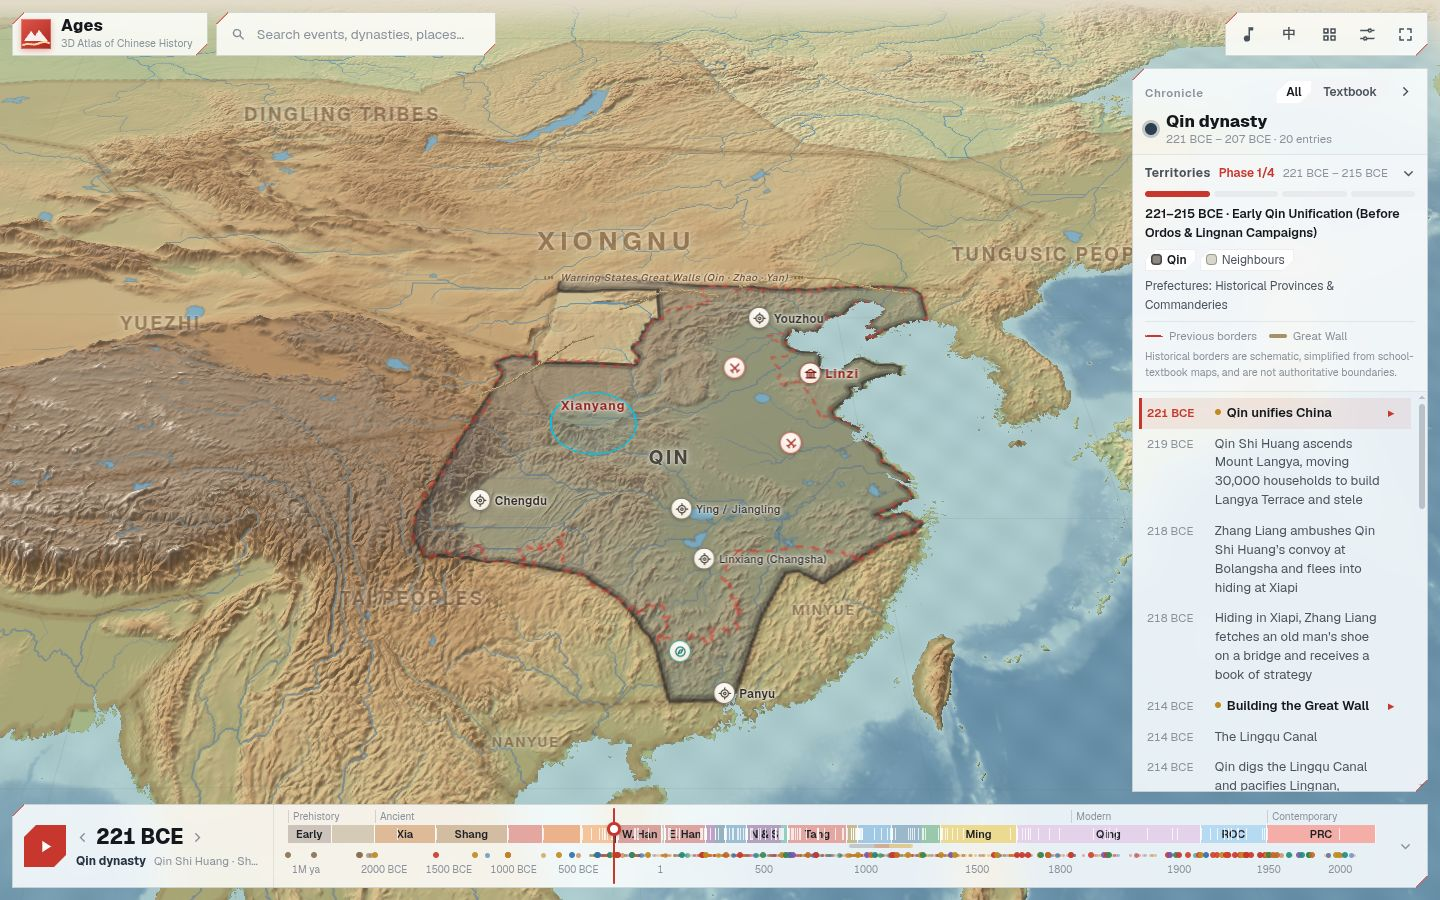
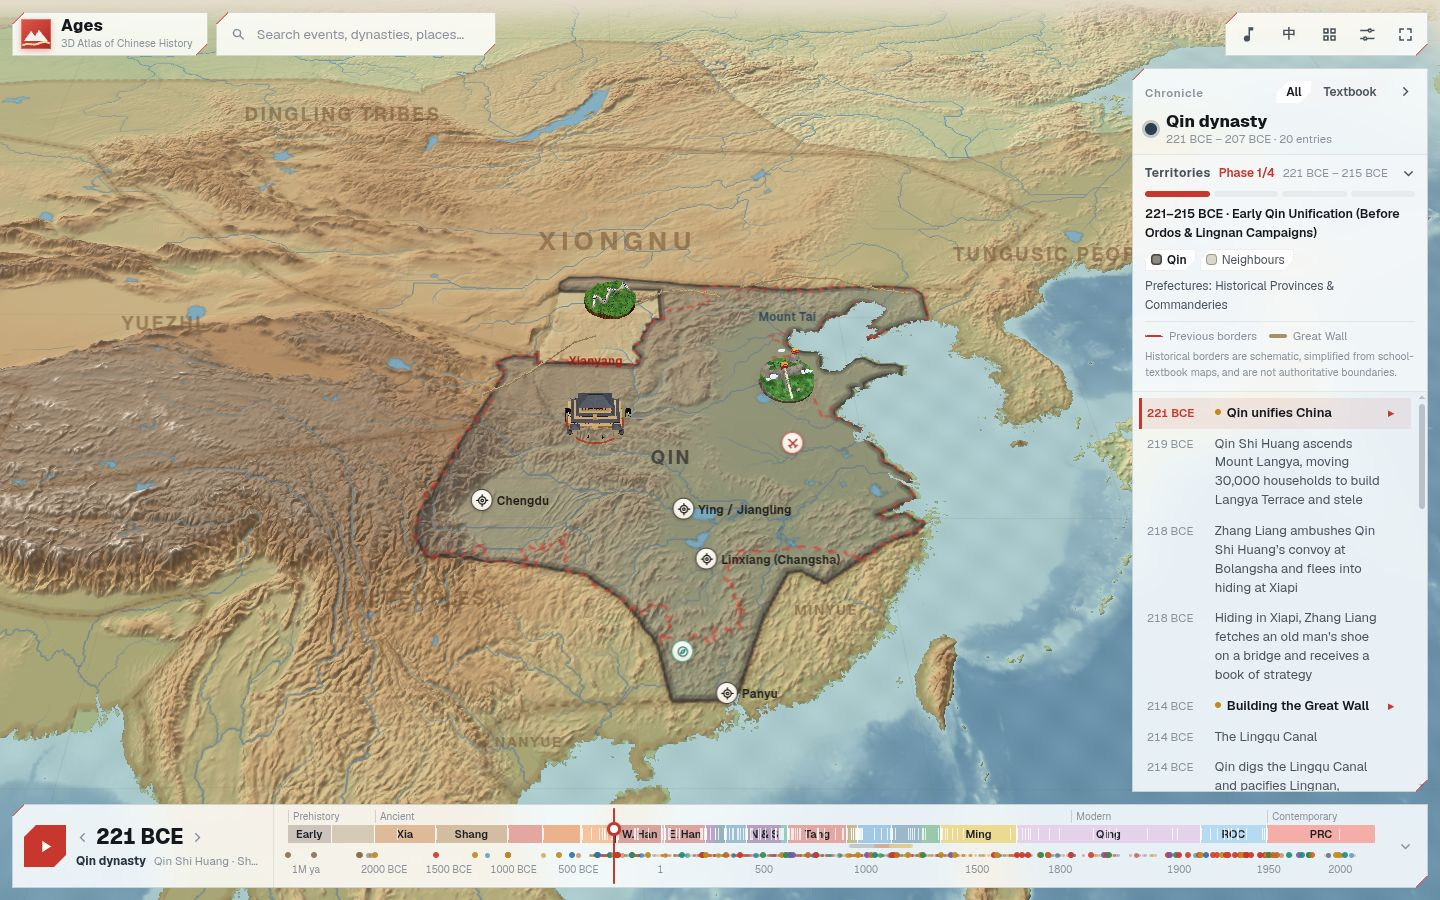
Uniform solid place-name labels without halo

diff --git a/src/client/styles.css b/src/client/styles.css
@@ -95,35 +95,29 @@ h2, h3 { font-weight: 700; }
 .labels {
   position: absolute; inset: 0; pointer-events: none; overflow: hidden; contain: strict; --lz: 1;
   /* sizes */
-  --fs-cap: 14px; --fs-1: 13px; --fs-2: 12px; --fs-3: 11px; --fs-4: 10.5px;
+  --fs-place: 13px; --fs-1: 13px; --fs-2: 12px; --fs-3: 11px;
   /* colours: dark relief (ink) */
-  --c-city: #f1ece2; --c-city-2: #d6d0c4; --c-cap: #ffe2b0; --c-water: #9fcbe0; --c-relief: #cfc6b4;
+  --c-city: #fbf7ee; --c-cap: #ffd38a; --c-water: #9fcbe0; --c-relief: #cfc6b4;
   --c-admin: #ddd0b4; --c-admin-1: #f2e2bf;
-  --halo: 0 0 2px #0c0e10, 0 0 4px #0c0e10, 0 1px 6px rgba(0, 0, 0, 0.85);
 }
 :root:not([data-map=ink]) .labels {
-  --c-city: #2b2620; --c-city-2: #5a5248; --c-cap: #8f1f16; --c-water: #1f5f8b; --c-relief: #4a5d6b;
-  --c-admin: #5b4a36; --c-admin-1: #47321d;
-  --halo: 0 0 2px #fbf8f1, 0 0 3px #fbf8f1, 0 0 6px rgba(251, 248, 241, 0.9);
+  --c-city: #1c1814; --c-cap: #a3180d; --c-water: #134f7a; --c-relief: #33475a;
+  --c-admin: #4a3a28; --c-admin-1: #3a2715;
 }
 .labels > * { position: absolute; left: 0; top: 0; will-change: transform; white-space: nowrap; }
 .labels { --marker-size: 22px; }
-.place, .river, .admin, .work { text-shadow: var(--halo); }
-
-/* Clickable geographical names: one location anchor, replaced by the model's base ring when modeled. */
+/* Clickable geographical names: one size and weight, solid colour by category, no halo.
+   The location anchor is replaced by the model's base ring when modeled. */
 .place {
-  --k: var(--c-city-2);
-  border: 0; background: none; padding: 3px; font-family: inherit; font-size: calc(var(--fs-2) * var(--lz));
-  font-weight: 500; color: var(--c-city); letter-spacing: 0.03em; pointer-events: auto; cursor: pointer;
+  --k: var(--c-city);
+  border: 0; background: none; padding: 3px; font-family: inherit; font-size: calc(var(--fs-place) * var(--lz));
+  font-weight: 600; color: var(--c-city); letter-spacing: 0.03em; pointer-events: auto; cursor: pointer;
   display: flex; align-items: center; gap: 4px; border-radius: 3px; text-decoration: none;
 }
 .place.modeled .b { display: none; }
-.place.t1 { font-size: calc(var(--fs-1) * var(--lz)); font-weight: 600; }
-.place.t3 { font-size: calc(var(--fs-3) * var(--lz)); font-weight: 400; color: var(--c-city-2); }
-.place.minor { font-size: calc(var(--fs-4) * var(--lz)); font-weight: 400; color: var(--c-city-2); opacity: 0.8; }
 .place.k-mountain, .place.k-pass { --k: var(--c-relief); color: var(--c-relief); }
 .place.k-water { --k: var(--c-water); color: var(--c-water); }
-.place.cap { --k: var(--c-cap); font-size: calc(var(--fs-cap) * var(--lz)); font-weight: 700; color: var(--c-cap); letter-spacing: 0.08em; }
+.place.cap { --k: var(--c-cap); color: var(--c-cap); }
 .place:focus-visible, .pin:focus-visible { outline: none; }
 
 /* water: rivers and lakes, spaced along their course */
@@ -154,7 +148,7 @@ h2, h3 { font-weight: 700; }
 :lang(en) .work { letter-spacing: 0.05em; }
 
 /* polities: the largest, heaviest names, sized by their area and tinted with their colour */
-.polity { font-weight: 800; letter-spacing: 0.3em; color: color-mix(in srgb, var(--c) 45%, #fff6e4); opacity: 0.92; text-shadow: 0 0 3px rgba(10, 10, 12, 0.95), 0 0 10px rgba(10, 10, 12, 0.7); }
+.polity { font-weight: 800; letter-spacing: 0.3em; color: color-mix(in srgb, var(--c) 45%, #fff6e4); opacity: 0.92; }
 .polity.s-xl { font-size: 26px; letter-spacing: 0.5em; }
 .polity.s-l { font-size: 19px; }
 .polity.s-m { font-size: 14px; }
@@ -162,7 +156,7 @@ h2, h3 { font-weight: 700; }
 .polity.r-neighbor { opacity: 0.6; font-weight: 600; }
 :lang(en) .polity { letter-spacing: 0.12em; text-transform: uppercase; font-weight: 700; }
 :lang(en) .polity.s-xl { letter-spacing: 0.2em; }
-:root:not([data-map=ink]) .polity { color: color-mix(in srgb, var(--c) 70%, #0d0a06); text-shadow: 0 0 3px rgba(255, 252, 245, 0.95), 0 0 8px rgba(255, 252, 245, 0.7); }
+:root:not([data-map=ink]) .polity { color: color-mix(in srgb, var(--c) 70%, #0d0a06); }
 
 
 /* One compact marker for all content: a quiet circular glyph, without stems or a second location dot. */

diff --git a/tests/e2e/app.spec.ts b/tests/e2e/app.spec.ts
@@ -308,6 +308,10 @@ test.describe('Ages atlas', () => {
       const sizes = await page.locator('.place.on:not(.modeled) .b, .pin.on:not(.model-hit) .b').evaluateAll(els =>
         [...new Set(els.map(el => { const r = el.getBoundingClientRect(); return `${r.width.toFixed(2)}x${r.height.toFixed(2)}`; }))]);
       expect(sizes).toEqual(['22.00x22.00']);
+      const text = await page.locator('.place.on').evaluateAll(els =>
+        [...new Set(els.map(el => { const s = getComputedStyle(el); return `${s.fontSize}/${s.fontWeight}/${s.textShadow}/${s.opacity}`; }))]);
+      expect(text).toHaveLength(1);
+      expect(text[0]).toMatch(/\/600\/none\/1$/);
     }
     await capital.focus();
     await expect(page.getByRole('tooltip')).toBeVisible();

diff --git a/docs/design/typography.md b/docs/design/typography.md
@@ -4,22 +4,23 @@ Every map label uses one scale, defined as CSS tokens on `.labels` in `src/clien
 
 | Property | Meaning |
 |---|---|
-| **Size** | importance (tier) |
-| **Weight** | rank inside a category |
-| **Colour** | category: settlement, water, relief, admin, work, polity |
+| **Size** | label type: every place name has one size; only rivers, admin areas and polities scale by their own rank |
+| **Weight** | place names are all 600; other labels use weight for rank inside their category |
+| **Colour** | category: settlement, capital, water, relief, admin, work, polity |
 | **Letter-spacing** | areal features (rivers, regions, polities) are spread along their extent |
 | **Italic** | man-made lines (walls, canals, roads, sea routes), and English river names |
-| **Halo** | every label except polities has a thin halo in the background colour, so it reads over any relief |
+| **No halo** | labels are solid, high-contrast colours with no glow or text shadow |
 
 ## Size tokens
 
 | Token | px | Used for |
 |---|---|---|
-| `--fs-cap` | 14 | capital of the year |
-| `--fs-1` | 13 | tier-1 cities, trunk rivers |
-| `--fs-2` | 12 | ordinary places, first-level admin areas |
-| `--fs-3` | 11 | tier-3 places, rivers and lakes, admin areas, works |
-| `--fs-4` | 10.5 | minor sites (shown only close up) |
+| `--fs-place` | 13 | every place name: capitals, cities, sites, mountains, passes, waters |
+| `--fs-1` | 13 | trunk rivers |
+| `--fs-2` | 12 | first-level admin areas |
+| `--fs-3` | 11 | rivers and lakes, admin areas, works |
+
+Place tiers decide only priority and the distance at which a name appears, never its size, weight or opacity.
 
 Polity names are sized by territory area (`s-xl` 26, `s-l` 19, `s-m` 14, `s-s` 12 px) and keep that size at every zoom.
 
@@ -29,21 +30,20 @@ Polity names are sized by territory area (`s-xl` 26, `s-l` 19, `s-m` 14, `s-s` 1
 
 | Label | Class | Weight | Colour token | Ink (dark) | Paper / plain |
 |---|---|---|---|---|---|
-| Capital | `.place.cap` | 700 | `--c-cap` + circular location anchor | `#ffe2b0` | `#8f1f16` |
-| Tier-1 city | `.place.t1` | 600 | `--c-city` | `#f1ece2` | `#2b2620` |
-| Place | `.place` | 500 | `--c-city` | `#f1ece2` | `#2b2620` |
-| Tier-3 / minor | `.place.t3`, `.minor` | 400 | `--c-city-2` | `#d6d0c4` | `#5a5248` |
-| Mountain, pass | `.place.k-mountain`, `.k-pass` | as tier | `--c-relief` | `#cfc6b4` | `#4a5d6b` |
-| Trunk river | `.river.k-trunk` | 600 | `--c-water` | `#9fcbe0` | `#1f5f8b` |
-| River, lake | `.river` | 500 | `--c-water` | `#9fcbe0` | `#1f5f8b` |
-| Admin area, level 1 | `.admin.l1` | 600 | `--c-admin-1` | `#f2e2bf` | `#47321d` |
-| Admin area | `.admin` | 500 | `--c-admin` | `#ddd0b4` | `#5b4a36` |
+| Capital | `.place.cap` | 600 | `--c-cap` | `#ffd38a` | `#a3180d` |
+| Place (any tier) | `.place` | 600 | `--c-city` | `#fbf7ee` | `#1c1814` |
+| Mountain, pass | `.place.k-mountain`, `.k-pass` | 600 | `--c-relief` | `#cfc6b4` | `#33475a` |
+| Water site | `.place.k-water` | 600 | `--c-water` | `#9fcbe0` | `#134f7a` |
+| Trunk river | `.river.k-trunk` | 600 | `--c-water` | `#9fcbe0` | `#134f7a` |
+| River, lake | `.river` | 500 | `--c-water` | `#9fcbe0` | `#134f7a` |
+| Admin area, level 1 | `.admin.l1` | 600 | `--c-admin-1` | `#f2e2bf` | `#3a2715` |
+| Admin area | `.admin` | 500 | `--c-admin` | `#ddd0b4` | `#4a3a28` |
 | Wall, canal, road, sea route | `.work.k-*` | 600 italic | the work's line colour | | |
 | Polity | `.polity` | 800 (neighbours 600) | the polity's colour mixed toward the background | | |
 
 Interactive text such as tooltips (`.maptip`) and model tags (`.tag`) belongs to the UI, not the map, and is not covered by these tokens.
 
-Clickable names are semantic buttons with the same 22 px circular icon as other compact markers; capitals are no larger.
+Clickable names are semantic buttons with the same 22 px circular icon as other compact markers; capitals differ only by colour.
 Hover and keyboard focus highlight only the circle, without underlining text or resizing the icon. When the place has a model, its base ring
 replaces that anchor and the same name sits above the model; both open the same card. Model bounds participate in label
 avoidance, so unrelated names never cover models. There are no separate importance-based model name plates.

diff --git a/docs/design/map-design.md b/docs/design/map-design.md
@@ -45,7 +45,8 @@ expanded form is a model. Both use the same `MapTarget` interaction path. There 
 Only geographical names remain on the map; people, events, customs and foods introduce themselves in the tooltip.
 Plain river, polity and administrative text is not styled as a button.
 All compact icons, including geographical locations and capitals without models, share a 22 px diameter. Their size
-stays fixed when hovered or focused; only the ring changes. Text is never underlined.
+stays fixed when hovered or focused; only the ring changes. Text is never underlined. Every place name has the same
+size and weight (13 px, 600) in a solid category colour without a halo; tier changes only when a name appears.
 
 **Importance sets priority, not name plates.** `sceneryOf` retains three priority levels, but they no longer dictate
 three different appearances or sizes. Up to six representative items are given leading priority; this is not a quota
